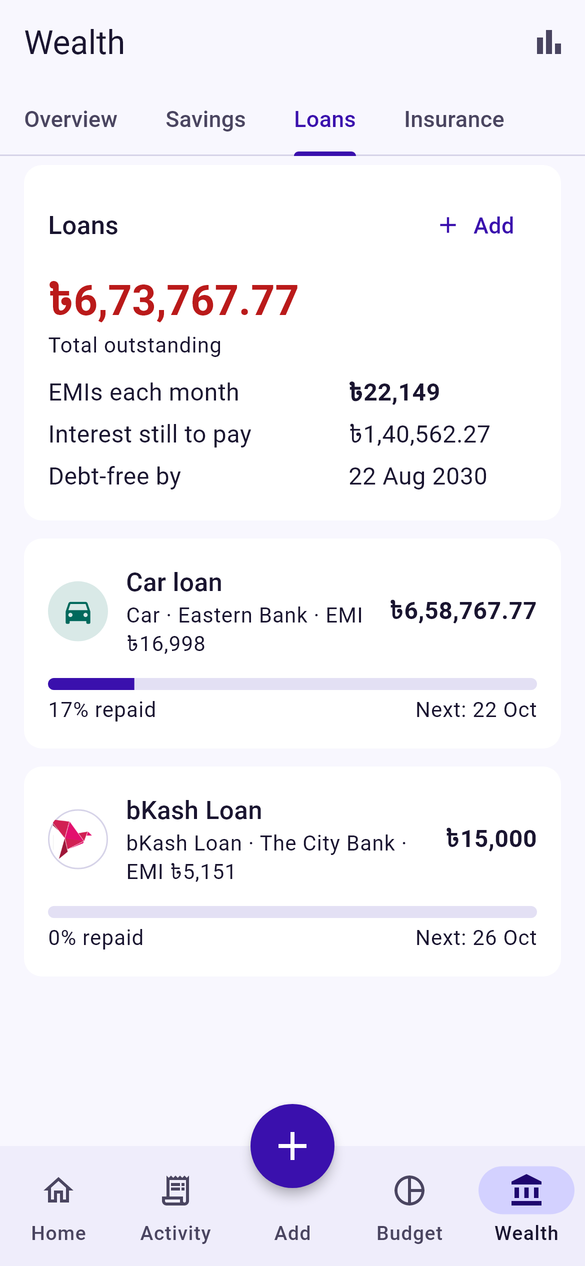
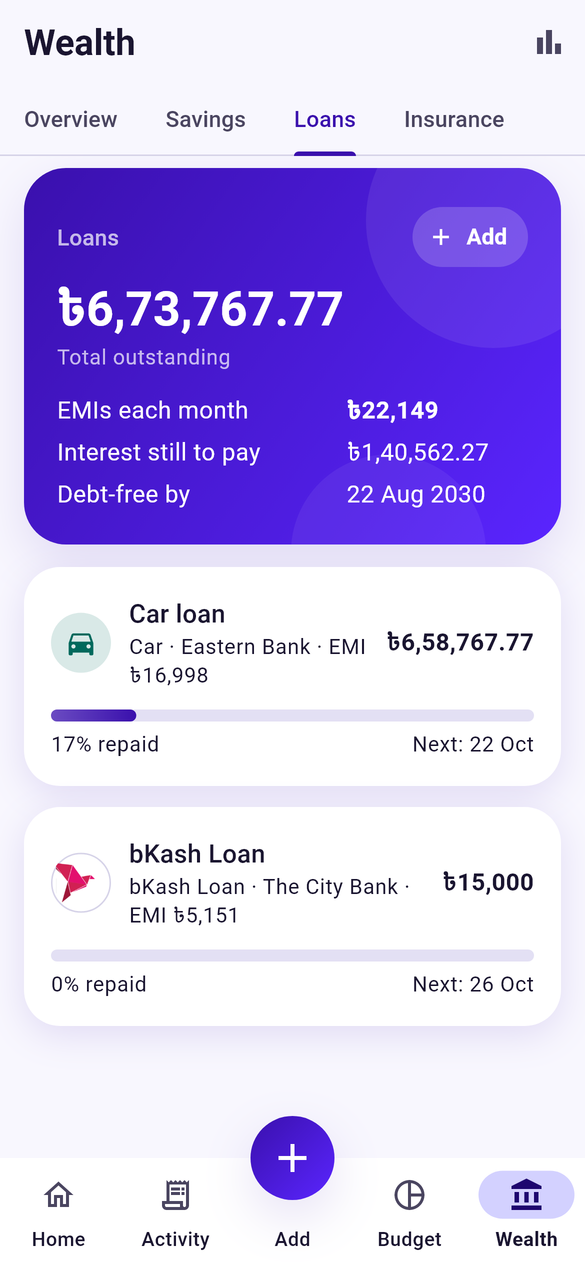
Screenshots and README for the 0.2.6 design

diff --git a/README.md b/README.md
@@ -46,7 +46,7 @@ insurance premium coming up. It shows where you stand today and what is coming n
 
 **Everyday money**
 - Cash, mobile wallets (bKash, Nagad, Rocket, Upay and more), bank accounts and cards; 70+ providers with logos
-- Add an expense in three taps with a big keypad, amounts shown in words
+- Quick actions on Home: expense, income or transfer in one tap; a big keypad shows amounts in words
 - Transfers with fees worked out for you: cash out, add money, bank to wallet
 - Search and filter every entry by account, category, income source or date
 
@@ -79,13 +79,13 @@ insurance premium coming up. It shows where you stand today and what is coming n
 **Your data, safely**
 - Encrypted on the phone; app lock with PIN or fingerprint; hides amounts in recent apps
 - Daily encrypted backup to Google Drive; restore everything on a new phone in a minute
-- Light and dark themes; in-app updates
+- A modern, animated design in light and dark; in-app updates with a red dot when one is ready
 
 ## Screenshots
 
 <table>
   <tr>
-    <td align="center"><img src="screenshots/01_home.png" width="250"><br><sub>Home: net worth, what to pay, safe to spend</sub></td>
+    <td align="center"><img src="screenshots/01_home.png" width="250"><br><sub>Home: net worth, quick actions, what to pay</sub></td>
     <td align="center"><img src="screenshots/02_wealth.png" width="250"><br><sub>Wealth: assets and loans together</sub></td>
     <td align="center"><img src="screenshots/03_savings.png" width="250"><br><sub>Savings from start to maturity</sub></td>
   </tr>
